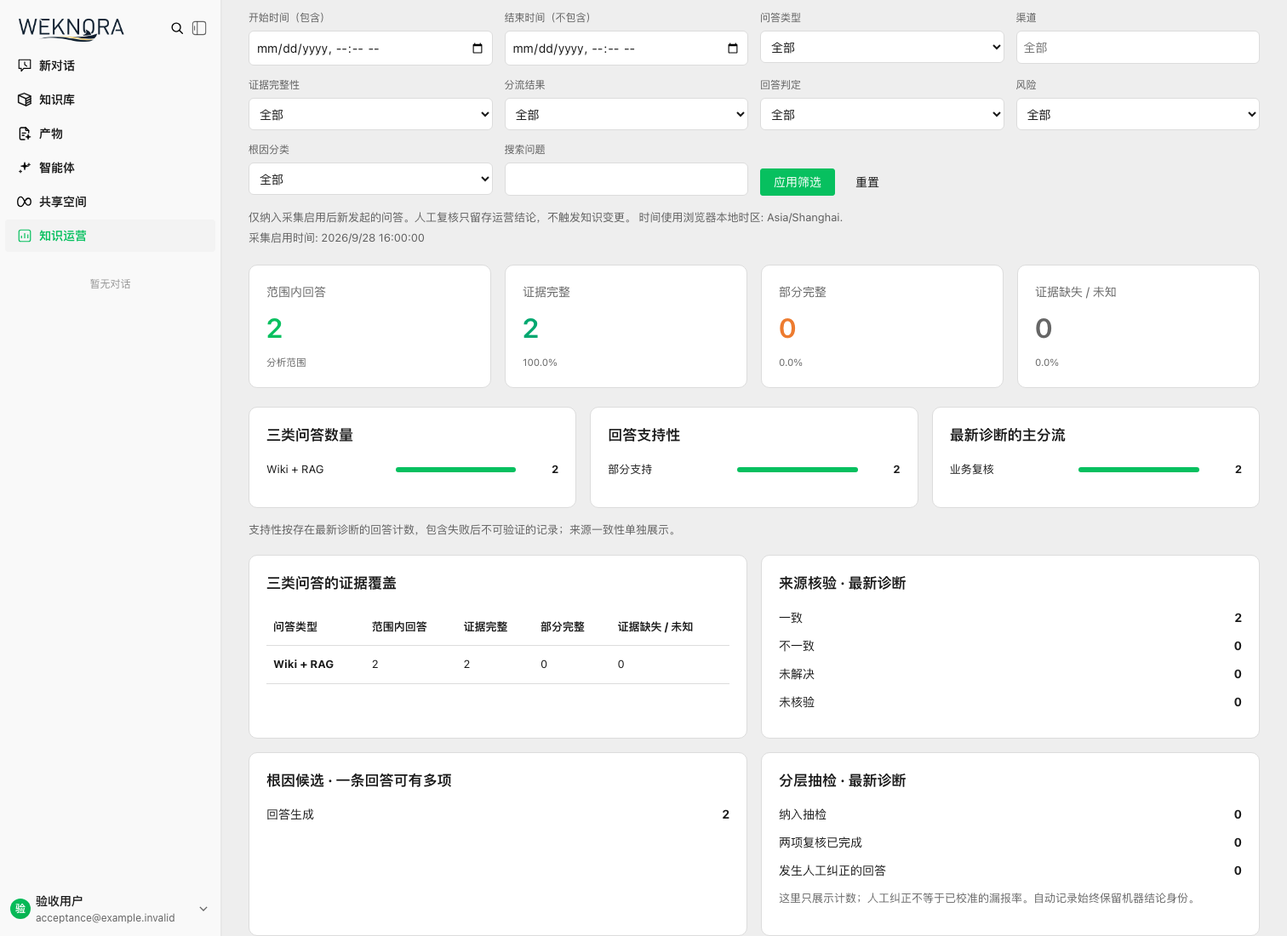
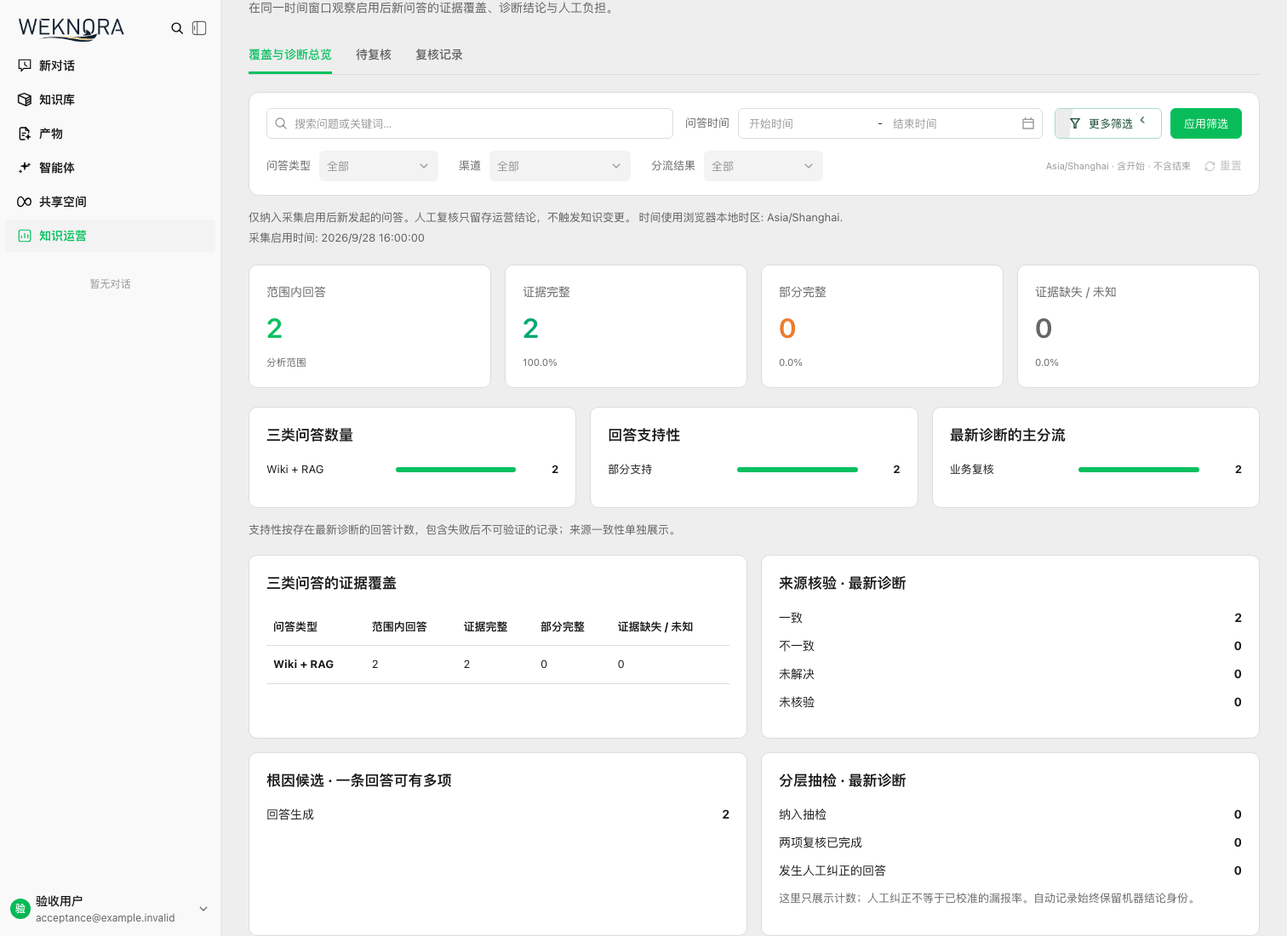
style: refine knowledge operations filter toolbar

diff --git a/frontend/src/views/knowledge-ops/Workbench.vue b/frontend/src/views/knowledge-ops/Workbench.vue
@@ -2,23 +2,7 @@
   <main class="ops-workbench">
     <header class="page-header"><div><h1>{{ k('title') }}</h1><p>{{ k('subtitle') }}</p></div><div class="header-actions"><t-tag :theme="settings?.enabled ? 'success' : 'default'" variant="light">{{ settings ? k(settings.enabled ? 'enabled' : 'disabled') : k('unknown') }}</t-tag><t-button variant="outline" @click="settingsVisible = true">{{ k('settings') }}</t-button><t-button variant="outline" :loading="loading" @click="reload">{{ k('refresh') }}</t-button></div></header>
     <nav class="tabs" :aria-label="k('title')"><button v-for="item in tabs" :key="item" type="button" :class="{ active: tab === item }" :aria-current="tab === item ? 'page' : undefined" @click="changeTab(item)">{{ k(item) }}</button></nav>
-    <form v-if="tab !== 'records'" class="filters" @submit.prevent="applyFilters">
-      <label>{{ k('from') }}<input v-model="draftFilters.from" type="datetime-local" /></label><label>{{ k('to') }}<input v-model="draftFilters.to" type="datetime-local" /></label>
-      <label>{{ k('qa_type') }}<select v-model="draftFilters.qa_type"><option value="">{{ k('all') }}</option><option v-for="mode in qaTypes" :key="mode" :value="mode">{{ label(mode) }}</option></select></label>
-      <label>{{ k('channel') }}<input v-model.trim="draftFilters.channel" :placeholder="k('all')" list="ops-channels" /><datalist id="ops-channels"><option v-for="channel in channels" :key="channel" :value="channel" /></datalist></label>
-      <label>{{ k('capture_status') }}<select v-model="draftFilters.capture_status"><option value="">{{ k('all') }}</option><option v-for="value in ['complete', 'partial', 'missing', 'unknown']" :key="value" :value="value">{{ label(value) }}</option></select></label>
-      <label>{{ k('route') }}<select v-model="draftFilters.route"><option value="">{{ k('all') }}</option><option v-for="value in routes" :key="value" :value="value">{{ label(value) }}</option></select></label>
-      <label>{{ k('verdict') }}<select v-model="draftFilters.verdict"><option value="">{{ k('all') }}</option><option v-for="value in answerVerdicts" :key="value" :value="value">{{ labelVerdict(value) }}</option></select></label>
-      <label>{{ k('risk') }}<select v-model="draftFilters.risk"><option value="">{{ k('all') }}</option><option v-for="value in ['high','medium','low','unknown']" :key="value" :value="value">{{ label(value) }}</option></select></label>
-      <label>{{ k('causeCategory') }}<select v-model="draftFilters.cause_category"><option value="">{{ k('all') }}</option><option v-for="value in ['generation','retrieval','wiki_source','source_conflict','applicability','capture','knowledge_gap','unknown']" :key="value" :value="value">{{ label(value) }}</option></select></label>
-      <label class="search-label">{{ k('search') }}<input v-model.trim="draftFilters.search" type="search" /></label><div class="filter-actions"><t-button type="submit">{{ k('apply') }}</t-button><t-button variant="text" @click="resetFilters">{{ k('reset') }}</t-button></div>
-    </form>
-    <form v-else class="filters" @submit.prevent="applyFilters">
-      <label>{{ k('reviewFrom') }}<input v-model="recordDraft.review_from" type="datetime-local" /></label><label>{{ k('reviewTo') }}<input v-model="recordDraft.review_to" type="datetime-local" /></label>
-      <label>{{ k('target') }}<select v-model="recordDraft.target"><option value="">{{ k('all') }}</option><option value="answer">{{ k('answerTarget') }}</option><option value="cause">{{ k('causeTarget') }}</option></select></label>
-      <label>{{ k('reviewAction') }}<select v-model="recordDraft.action"><option value="">{{ k('all') }}</option><option v-for="value in ['confirmed','corrected','needs_more_evidence']" :key="value" :value="value">{{ label(value) }}</option></select></label>
-      <label>{{ k('reviewerID') }}<input v-model.trim="recordDraft.reviewer_id" /></label><label>{{ k('reviewSearch') }}<input v-model.trim="recordDraft.review_search" type="search" /></label><div class="filter-actions"><t-button type="submit">{{ k('apply') }}</t-button><t-button variant="text" @click="resetFilters">{{ k('reset') }}</t-button></div>
-    </form>
+    <FilterBar :values="tab === 'records' ? recordDraft : draftFilters" :applied="tab === 'records' ? recordFilters : filters" :records="tab === 'records'" :loading="loading" @change="changeFilter" @period="changePeriod" @apply="applyFilters" @reset="resetFilters" @remove="removeFilter" />
     <p v-if="filters.route === 'technical_followup'" class="scope-note">{{ k('technicalNotice') }}</p>
     <p v-if="filterError" class="error" role="alert">{{ filterError }}</p>
     <p class="scope-note">{{ k('scopeNotice') }} {{ k('timeZone') }}: {{ timeZone }}. <span v-if="settings?.capture_enabled_at">{{ k('captureSince') }}: {{ date(settings.capture_enabled_at) }}</span></p>
@@ -50,8 +34,9 @@ import { useRoute, useRouter } from 'vue-router'
 import { MessagePlugin } from 'tdesign-vue-next'
 import { useAuthStore } from '@/stores/auth'
 import { getOpsSettings, getOpsOverview, getOpsRuns, getOpsReviews, getOpsGroups, type OpsGroup, opsErrorCode, type OpsSettings, type OpsOverview, type OpsRun, type OpsReview, type OpsFilters } from '@/api/knowledge-ops'
-import { buildFilters, answerVerdicts, routes } from './state'
+import { buildFilters } from './state'
 import { useOpsText } from './locales'
+import FilterBar from './FilterBar.vue'
 import QueuePanel from './QueuePanel.vue'
 import OverviewInsights from './OverviewInsights.vue'
 import SettingsDrawer from './SettingsDrawer.vue'
@@ -70,8 +55,6 @@ const recordDraft = reactive({review_from: '', review_to: '', target: '', action
 const activeRun = computed(() => typeof route.query.run === 'string' ? route.query.run : '')
 const blankFilters = () => ({ from: '', to: '', qa_type: '', channel: '', capture_status: '', route: '', verdict: '', search: '', risk: '', cause_category: '' })
 const draftFilters = reactive(blankFilters()); const filters = ref<OpsFilters>({}); let token = 0
-const qaTypes = ['rag-qa', 'wiki-qa', 'hybrid-rag-wiki']
-const channels = ['web', 'api', 'embed', 'wecom', 'feishu', 'lark', 'slack', 'telegram', 'dingtalk', 'mattermost', 'wechat', 'qqbot']
 const metrics = computed(() => [{ key: 'total', value: overview.value?.total || 0 }, { key: 'complete', value: overview.value?.complete || 0 }, { key: 'partial', value: overview.value?.partial || 0 }, { key: 'missing', value: overview.value?.missing || 0 }])
 const distributions = computed(() => [{ key: 'modes', values: overview.value?.by_mode || {} }, { key: 'verdicts', values: overview.value?.by_verdict || {} }, { key: 'routing', values: overview.value?.by_route || {} }])
 async function reload() {
@@ -84,6 +67,15 @@ async function reload() {
     if (tab.value === 'records') { reviews.value = result.items as OpsReview[]; runs.value = [] } else if (tab.value === 'queue' && grouped.value && !selectedGroup.value) { groups.value = result.items as OpsGroup[]; runs.value = []; reviews.value = [] } else { runs.value = result.items as OpsRun[]; groups.value = []; reviews.value = [] }
   } catch (failure) { if (current === token) { error.value = k(opsErrorCode(failure)); runs.value = []; reviews.value = []; overview.value = undefined; total.value = 0 } }
   finally { if (current === token) loading.value = false }
+}
+function changeFilter(key: string, value: string) { const draft = tab.value === 'records' ? recordDraft : draftFilters; if (key in draft) (draft as Record<string, string>)[key] = value }
+function changePeriod(from: string, to: string) { if (tab.value === 'records') {recordDraft.review_from = from; recordDraft.review_to = to} else {draftFilters.from = from; draftFilters.to = to} }
+function removeFilter(key: string) {
+  const applied = {...(tab.value === 'records' ? recordFilters.value : filters.value)} as Record<string,string>
+  const keys = key === 'period' ? (tab.value === 'records' ? ['review_from','review_to'] : ['from','to']) : [key]
+  keys.forEach(item => {delete applied[item]; changeFilter(item, '')})
+  if (tab.value === 'records') recordFilters.value = applied; else filters.value = applied
+  selectedGroup.value = ''; page.value = 1; void reload()
 }
 function applyFilters() {
   filterError.value = ''
@@ -106,6 +98,6 @@ watch(() => route.query.tab, value => { if (tabs.includes(value as Tab) && value
 onMounted(reload)
 </script>
 <style scoped>
-.ops-workbench{height:100%;box-sizing:border-box;overflow:auto;padding:30px 32px 40px;background:var(--td-bg-color-page);color:var(--td-text-color-primary);font-size:14px;line-height:1.5}.page-header{display:flex;justify-content:space-between;gap:20px;align-items:flex-start;margin-bottom:24px}h1{margin:0;font-size:26px;font-weight:600}h2{margin:0 0 18px;font-size:17px}h3{font-size:16px}.page-header p{color:var(--td-text-color-secondary);margin:8px 0 0}.header-actions{display:flex;align-items:center;gap:10px;flex-wrap:wrap}.tabs{display:flex;gap:28px;border-bottom:1px solid var(--td-component-border);margin-bottom:20px}.tabs button{min-height:44px;font:inherit;font-weight:500;cursor:pointer;background:transparent;border:0;border-bottom:3px solid transparent;color:var(--td-text-color-secondary);padding:10px 0}.tabs button.active{border-color:var(--td-brand-color);color:var(--td-brand-color)}.filters{display:grid;grid-template-columns:repeat(4,minmax(130px,1fr));gap:14px}.filters label{display:flex;flex-direction:column;gap:6px;font-size:12px;color:var(--td-text-color-secondary)}.filters input,.filters select{box-sizing:border-box;width:100%;font:inherit;font-size:14px;min-height:38px;padding:8px;border:1px solid var(--td-component-border);border-radius:6px;background:var(--td-bg-color-container);color:var(--td-text-color-primary)}.filter-actions{display:flex;gap:8px;align-items:flex-end}.scope-note,.muted{font-size:13px;color:var(--td-text-color-secondary)}.scope-note{margin:16px 0}.scope-note span{display:block;margin-top:4px}.metrics{display:grid;grid-template-columns:repeat(4,minmax(0,1fr));gap:16px;margin:22px 0}.metric{padding:20px;border:1px solid var(--td-component-border);border-radius:10px;background:var(--td-bg-color-container);display:flex;flex-direction:column;gap:8px}.metric span{color:var(--td-text-color-secondary)}.metric strong{font-size:32px;font-weight:600;color:var(--td-brand-color)}.metric strong.complete{color:var(--td-success-color)}.metric strong.partial{color:var(--td-warning-color)}.metric strong.missing{color:var(--td-text-color-secondary)}.metric small{color:var(--td-text-color-secondary)}.panel{background:var(--td-bg-color-container);border:1px solid var(--td-component-border);border-radius:10px;padding:20px}.distribution-grid{display:grid;grid-template-columns:repeat(3,minmax(0,1fr));gap:16px}.distribution{display:grid;grid-template-columns:minmax(90px,1fr) 1fr 40px;gap:10px;align-items:center;margin:14px 0;font-size:13px}.distribution strong{text-align:right}.bar{height:6px;background:var(--td-bg-color-secondarycontainer);border-radius:4px;overflow:hidden}.bar i{display:block;height:100%;background:var(--td-brand-color)}.summary{display:flex;gap:30px;margin:20px 0;color:var(--td-text-color-secondary)}.summary strong{margin-left:8px;color:var(--td-text-color-primary)}.list-panel{margin-top:20px}.section-header{display:flex;align-items:baseline;justify-content:space-between}.section-header h2{margin-bottom:0}.table-scroll{overflow:auto}table{border-collapse:collapse;width:100%;min-width:950px;font-size:13px;text-align:left}th{font-weight:500;background:var(--td-bg-color-secondarycontainer);color:var(--td-text-color-secondary);white-space:nowrap}th,td{padding:14px 12px;border-bottom:1px solid var(--td-component-border);vertical-align:top}td small{display:block;color:var(--td-text-color-secondary);margin-top:6px;font-size:12px;max-width:180px;overflow-wrap:anywhere}.question-cell{max-width:260px;min-width:160px}.question-cell>span{display:-webkit-box;-webkit-line-clamp:3;-webkit-box-orient:vertical;overflow:hidden;overflow-wrap:anywhere}.reason-cell{max-width:300px;white-space:pre-wrap;overflow-wrap:anywhere}.status-tag{display:inline-block;white-space:nowrap;padding:3px 7px;background:var(--td-bg-color-secondarycontainer);border-radius:4px}.status-tag.complete{background:var(--td-success-color-light);color:var(--td-success-color)}.status-tag.partial{background:var(--td-warning-color-light);color:var(--td-warning-color)}.link-button{border:0;padding:0;background:transparent;color:var(--td-brand-color);font:inherit;cursor:pointer;white-space:nowrap;min-height:32px}.link-button:hover{text-decoration:underline}tbody tr:hover{background:var(--td-bg-color-container-hover)}.pagination{display:flex;justify-content:flex-end;align-items:center;gap:14px;margin-top:20px}.empty-state{text-align:center;padding:40px 20px;color:var(--td-text-color-secondary)}.loading-state{display:flex;justify-content:center;align-items:center;gap:12px;min-height:280px}.error{color:var(--td-error-color)}button:focus-visible,input:focus-visible,select:focus-visible{outline:2px solid var(--td-brand-color);outline-offset:3px}@media(max-width:1100px){.page-header{flex-direction:column}.distribution-grid{grid-template-columns:1fr}.filters{grid-template-columns:repeat(3,minmax(130px,1fr))}}@media(max-width:700px){.ops-workbench{padding:20px 16px}.filters,.metrics{grid-template-columns:repeat(2,minmax(0,1fr))}.tabs{gap:18px}.header-actions{gap:8px}.summary{flex-wrap:wrap;gap:12px}.pagination{justify-content:center}}
+.ops-workbench{height:100%;box-sizing:border-box;overflow:auto;padding:30px 32px 40px;background:var(--td-bg-color-page);color:var(--td-text-color-primary);font-size:14px;line-height:1.5}.page-header{display:flex;justify-content:space-between;gap:20px;align-items:flex-start;margin-bottom:24px}h1{margin:0;font-size:26px;font-weight:600}h2{margin:0 0 18px;font-size:17px}h3{font-size:16px}.page-header p{color:var(--td-text-color-secondary);margin:8px 0 0}.header-actions{display:flex;align-items:center;gap:10px;flex-wrap:wrap}.tabs{display:flex;gap:28px;border-bottom:1px solid var(--td-component-border);margin-bottom:20px}.tabs button{min-height:44px;font:inherit;font-weight:500;cursor:pointer;background:transparent;border:0;border-bottom:3px solid transparent;color:var(--td-text-color-secondary);padding:10px 0}.tabs button.active{border-color:var(--td-brand-color);color:var(--td-brand-color)}.scope-note,.muted{font-size:13px;color:var(--td-text-color-secondary)}.scope-note{margin:16px 0}.scope-note span{display:block;margin-top:4px}.metrics{display:grid;grid-template-columns:repeat(4,minmax(0,1fr));gap:16px;margin:22px 0}.metric{padding:20px;border:1px solid var(--td-component-border);border-radius:10px;background:var(--td-bg-color-container);display:flex;flex-direction:column;gap:8px}.metric span{color:var(--td-text-color-secondary)}.metric strong{font-size:32px;font-weight:600;color:var(--td-brand-color)}.metric strong.complete{color:var(--td-success-color)}.metric strong.partial{color:var(--td-warning-color)}.metric strong.missing{color:var(--td-text-color-secondary)}.metric small{color:var(--td-text-color-secondary)}.panel{background:var(--td-bg-color-container);border:1px solid var(--td-component-border);border-radius:10px;padding:20px}.distribution-grid{display:grid;grid-template-columns:repeat(3,minmax(0,1fr));gap:16px}.distribution{display:grid;grid-template-columns:minmax(90px,1fr) 1fr 40px;gap:10px;align-items:center;margin:14px 0;font-size:13px}.distribution strong{text-align:right}.bar{height:6px;background:var(--td-bg-color-secondarycontainer);border-radius:4px;overflow:hidden}.bar i{display:block;height:100%;background:var(--td-brand-color)}.summary{display:flex;gap:30px;margin:20px 0;color:var(--td-text-color-secondary)}.summary strong{margin-left:8px;color:var(--td-text-color-primary)}.list-panel{margin-top:20px}.section-header{display:flex;align-items:baseline;justify-content:space-between}.section-header h2{margin-bottom:0}.table-scroll{overflow:auto}table{border-collapse:collapse;width:100%;min-width:950px;font-size:13px;text-align:left}th{font-weight:500;background:var(--td-bg-color-secondarycontainer);color:var(--td-text-color-secondary);white-space:nowrap}th,td{padding:14px 12px;border-bottom:1px solid var(--td-component-border);vertical-align:top}td small{display:block;color:var(--td-text-color-secondary);margin-top:6px;font-size:12px;max-width:180px;overflow-wrap:anywhere}.question-cell{max-width:260px;min-width:160px}.question-cell>span{display:-webkit-box;-webkit-line-clamp:3;-webkit-box-orient:vertical;overflow:hidden;overflow-wrap:anywhere}.reason-cell{max-width:300px;white-space:pre-wrap;overflow-wrap:anywhere}.status-tag{display:inline-block;white-space:nowrap;padding:3px 7px;background:var(--td-bg-color-secondarycontainer);border-radius:4px}.status-tag.complete{background:var(--td-success-color-light);color:var(--td-success-color)}.status-tag.partial{background:var(--td-warning-color-light);color:var(--td-warning-color)}.link-button{border:0;padding:0;background:transparent;color:var(--td-brand-color);font:inherit;cursor:pointer;white-space:nowrap;min-height:32px}.link-button:hover{text-decoration:underline}tbody tr:hover{background:var(--td-bg-color-container-hover)}.pagination{display:flex;justify-content:flex-end;align-items:center;gap:14px;margin-top:20px}.empty-state{text-align:center;padding:40px 20px;color:var(--td-text-color-secondary)}.loading-state{display:flex;justify-content:center;align-items:center;gap:12px;min-height:280px}.error{color:var(--td-error-color)}button:focus-visible,input:focus-visible,select:focus-visible{outline:2px solid var(--td-brand-color);outline-offset:3px}@media(max-width:1100px){.page-header{flex-direction:column}.distribution-grid{grid-template-columns:1fr}}@media(max-width:700px){.ops-workbench{padding:20px 16px}.metrics{grid-template-columns:repeat(2,minmax(0,1fr))}.tabs{gap:18px}.header-actions{gap:8px}.summary{flex-wrap:wrap;gap:12px}.pagination{justify-content:center}}
 .queue-counts{margin:20px 0}.queue-count-grid{display:grid;grid-template-columns:repeat(4,1fr);gap:12px}.queue-count-grid button{display:flex;align-items:center;justify-content:space-between;padding:16px;border:1px solid var(--td-component-border);border-radius:8px;background:var(--td-bg-color-container);font:inherit;color:var(--td-text-color-primary);cursor:pointer}.queue-count-grid strong{font-size:24px;color:var(--td-brand-color)}@media(max-width:1000px){.queue-count-grid{grid-template-columns:repeat(2,1fr)}}
 </style>

diff --git a/frontend/src/views/knowledge-ops/FilterBar.vue b/frontend/src/views/knowledge-ops/FilterBar.vue
@@ -1,0 +1,106 @@
+<template>
+  <form class="ops-filter-bar" @submit.prevent="emit('apply')">
+    <div class="filter-toolbar">
+      <t-input class="filter-search" :value="values[searchKey]" :placeholder="k(records ? 'reviewSearch' : 'searchPlaceholder')" :aria-label="k(records ? 'reviewSearch' : 'search')" clearable @change="(value: unknown) => change(searchKey, value)">
+        <template #prefix-icon><SearchIcon /></template>
+      </t-input>
+      <div class="filter-period">
+        <span class="field-caption" :id="`${id}-period`">{{ k(records ? 'reviewPeriod' : 'questionPeriod') }}</span>
+        <t-date-range-picker class="period-picker" :value="period" :aria-labelledby="`${id}-period`" :placeholder="[k('startDate'), k('endDate')]" :presets="presets" :first-day-of-week="1" value-type="time-stamp" format="YYYY-MM-DD HH:mm" enable-time-picker clearable :need-confirm="true" @change="changePeriod" />
+      </div>
+      <div class="toolbar-actions">
+        <t-button v-if="!records" class="more-button" variant="outline" theme="default" :aria-expanded="expanded" :aria-controls="`${id}-advanced`" @click="expanded = !expanded">
+          <template #icon><FilterIcon /></template>{{ k('moreFilters') }}<span v-if="advancedCount" class="filter-count">{{ advancedCount }}</span><ChevronDownIcon class="chevron" :class="{ expanded }" />
+        </t-button>
+        <t-button type="submit" theme="primary" :loading="loading">{{ k('apply') }}</t-button>
+      </div>
+    </div>
+    <div class="quick-filters">
+      <div v-for="field in primaryFields" :key="field.key" class="inline-field">
+        <label :id="`${id}-${field.key}`">{{ k(field.title) }}</label>
+        <t-input v-if="field.key === 'reviewer_id'" :value="values[field.key]" :aria-labelledby="`${id}-${field.key}`" :placeholder="k('allReviewers')" clearable @change="(value: unknown) => change(field.key, value)" />
+        <t-select v-else :value="values[field.key] || undefined" :aria-labelledby="`${id}-${field.key}`" :options="options(field)" :placeholder="k('all')" clearable :filterable="field.key === 'channel'" :creatable="field.key === 'channel'" @create="(value: unknown) => change(field.key, value)" @change="(value: unknown) => change(field.key, value)" />
+      </div>
+      <div class="filter-meta"><span class="time-note">{{ timeZone }} · {{ k('timeBoundary') }}</span><button type="button" class="reset-button" :disabled="!hasValues" @click="emit('reset')"><RefreshIcon />{{ k('reset') }}</button></div>
+    </div>
+    <div v-if="expanded && !records" :id="`${id}-advanced`" class="advanced-filters">
+      <div v-for="field in advancedFields" :key="field.key" class="advanced-field">
+        <label :id="`${id}-${field.key}`">{{ k(field.title) }}</label>
+        <t-select :value="values[field.key] || undefined" :aria-labelledby="`${id}-${field.key}`" :options="options(field)" :placeholder="k('all')" clearable @change="(value: unknown) => change(field.key, value)" />
+      </div>
+    </div>
+    <div v-if="activeTags.length" class="applied-filters" aria-live="polite"><span class="applied-label">{{ k('activeFilters') }}</span><t-tag v-for="tag in activeTags" :key="tag.key" closable variant="light" theme="default" @close="emit('remove', tag.key)">{{ tag.text }}</t-tag></div>
+  </form>
+</template>
+
+<script setup lang="ts">
+import { computed, ref } from 'vue'
+import { SearchIcon, FilterIcon, ChevronDownIcon, RefreshIcon } from 'tdesign-icons-vue-next'
+import type { DateRangeValue } from 'tdesign-vue-next'
+import type { OpsFilters } from '@/api/knowledge-ops'
+import { answerVerdicts, routes } from './state'
+import { useOpsText } from './locales'
+const props = defineProps<{ values: Record<string, string>; applied: OpsFilters; records: boolean; loading: boolean }>()
+const emit = defineEmits<{ change: [key: string, value: string]; period: [from: string, to: string]; apply: []; reset: []; remove: [key: string] }>()
+const { k, label, labelVerdict, date } = useOpsText()
+const expanded = ref(false)
+const id = computed(() => props.records ? 'ops-record-filters' : 'ops-run-filters')
+const timeZone = Intl.DateTimeFormat().resolvedOptions().timeZone
+const searchKey = computed(() => props.records ? 'review_search' : 'search')
+const timeKeys = computed(() => props.records ? ['review_from', 'review_to'] : ['from', 'to'])
+interface Field { key: string; title: string; values: string[] }
+const runFields: Field[] = [
+  { key: 'qa_type', title: 'qa_type', values: ['rag-qa', 'wiki-qa', 'hybrid-rag-wiki'] },
+  { key: 'channel', title: 'channel', values: ['web', 'api', 'embed', 'wecom', 'feishu', 'lark', 'slack', 'telegram', 'dingtalk', 'mattermost', 'wechat', 'qqbot'] },
+  { key: 'route', title: 'route', values: routes },
+]
+const recordFields: Field[] = [
+  { key: 'target', title: 'target', values: ['answer', 'cause'] },
+  { key: 'action', title: 'reviewAction', values: ['confirmed', 'corrected', 'needs_more_evidence'] },
+  { key: 'reviewer_id', title: 'reviewer', values: [] },
+]
+const advancedFields: Field[] = [
+  { key: 'capture_status', title: 'capture_status', values: ['complete', 'partial', 'missing', 'unknown'] },
+  { key: 'verdict', title: 'verdict', values: answerVerdicts },
+  { key: 'risk', title: 'risk', values: ['high', 'medium', 'low', 'unknown'] },
+  { key: 'cause_category', title: 'causeCategory', values: ['generation', 'retrieval', 'wiki_source', 'source_conflict', 'applicability', 'capture', 'knowledge_gap', 'unknown'] },
+]
+const primaryFields = computed(() => props.records ? recordFields : runFields)
+function displayValue(key: string, value: string) {
+  if (key === 'target') return k(value === 'answer' ? 'answerTarget' : 'causeTarget')
+  return key === 'verdict' ? labelVerdict(value) : label(value)
+}
+function options(field: Field) {return field.values.map(value => ({value, label: displayValue(field.key, value)}))}
+function change(key: string, value: unknown) {emit('change', key, typeof value === 'string' ? value : '')}
+const period = computed(() => timeKeys.value.map(key => props.values[key] ? new Date(props.values[key]).getTime() : '').filter(value => value !== '') as DateRangeValue)
+function changePeriod(value: DateRangeValue) {
+  emit('period', value[0] ? new Date(value[0]).toISOString() : '', value[1] ? new Date(value[1]).toISOString() : '')
+}
+const presets = computed(() => ({
+  [k('last7Days')]: () => [Date.now() - 7 * 86400000, Date.now()] as [number, number],
+  [k('last30Days')]: () => [Date.now() - 30 * 86400000, Date.now()] as [number, number],
+}))
+const advancedCount = computed(() => advancedFields.filter(field => !!props.values[field.key]).length)
+const hasValues = computed(() => Object.values(props.values).some(Boolean) || Object.values(props.applied).some(Boolean))
+const activeTags = computed(() => {
+  const tags: { key: string; text: string }[] = []
+  const applied = props.applied as Record<string, string>
+  const [from, to] = timeKeys.value
+  if (applied[from] || applied[to]) tags.push({key: 'period', text: `${k(props.records ? 'reviewPeriod' : 'questionPeriod')}: ${applied[from] ? date(applied[from]) : '…'} → ${applied[to] ? date(applied[to]) : '…'}`})
+  for (const field of [...primaryFields.value, ...(props.records ? [] : advancedFields)]) {
+    if (applied[field.key]) tags.push({key: field.key, text: `${k(field.title)}: ${displayValue(field.key, applied[field.key])}`})
+  }
+  if (applied[searchKey.value]) tags.push({key: searchKey.value, text: `${k('searchShort')}: ${applied[searchKey.value]}`})
+  return tags
+})
+</script>
+
+<style scoped>
+.ops-filter-bar{--filter-height:36px;background:var(--td-bg-color-container);border:1px solid var(--td-component-border);border-radius:12px;padding:18px 20px 0;box-shadow:0 2px 8px #00000003}
+.filter-toolbar{display:flex;align-items:center;gap:14px}.filter-search{flex:1;min-width:180px}.filter-period{display:flex;align-items:center;gap:10px;flex:0 1 420px;min-width:300px}.field-caption{white-space:nowrap;color:var(--td-text-color-secondary);font-size:13px}.period-picker{flex:1;min-width:0}.toolbar-actions{display:flex;gap:10px;align-items:center;flex-shrink:0}.chevron{font-size:14px;transition:transform .16s;margin-left:4px}.chevron.expanded{transform:rotate(180deg)}.filter-count{font-size:11px;border-radius:4px;background:var(--td-brand-color-light);color:var(--td-brand-color);padding:0 5px;margin-left:5px}
+.quick-filters{display:flex;align-items:center;gap:24px;padding:14px 0 16px}.inline-field{display:flex;align-items:center;gap:10px;min-width:0;flex:0 1 202px}.inline-field label{white-space:nowrap;font-size:13px;color:var(--td-text-color-secondary)}.inline-field :deep(.t-select__wrap),.inline-field :deep(.t-input__wrap){flex:1;min-width:90px}.inline-field :deep(.t-input){background:var(--td-bg-color-secondarycontainer);border-color:transparent}.inline-field :deep(.t-input:hover){border-color:var(--td-component-border)}.inline-field :deep(.t-input--focused){border-color:var(--td-brand-color)}.filter-meta{display:flex;align-items:center;justify-content:flex-end;gap:16px;flex:1;white-space:nowrap}.time-note{font-size:11px;color:var(--td-text-color-placeholder)}.reset-button{display:flex;align-items:center;gap:5px;border:0;padding:5px 0;background:none;font:inherit;font-size:13px;color:var(--td-text-color-secondary);cursor:pointer;white-space:nowrap}.reset-button:hover:not(:disabled){color:var(--td-brand-color)}.reset-button:disabled{opacity:.4;cursor:default}
+.advanced-filters{display:grid;grid-template-columns:repeat(4,minmax(0,1fr));gap:20px;padding:18px 0;border-top:1px dashed var(--td-component-border)}.advanced-field{display:flex;flex-direction:column;gap:8px}.advanced-field label{font-size:12px;color:var(--td-text-color-secondary)}.applied-filters{border-top:1px solid var(--td-component-border);padding:12px 0;display:flex;align-items:center;gap:8px;flex-wrap:wrap}.applied-label{font-size:12px;color:var(--td-text-color-secondary);margin-right:4px}.applied-filters :deep(.t-tag){max-width:100%;height:auto;min-height:26px;white-space:normal;overflow-wrap:anywhere;border-radius:5px}.ops-filter-bar :deep(.t-input){height:var(--filter-height);border-radius:6px;font-size:13px}.ops-filter-bar :deep(.t-range-input){height:var(--filter-height);border-radius:6px;font-size:12px}.ops-filter-bar :deep(.t-button){height:var(--filter-height);border-radius:6px;font-size:13px}.period-picker :deep(.t-range-input__inner .t-input){height:100%;border:0;border-radius:3px;box-shadow:none}.ops-filter-bar :deep(.t-input__prefix-icon){color:var(--td-text-color-placeholder)}button:focus-visible{outline:2px solid var(--td-brand-color);outline-offset:3px}
+@media(max-width:1250px){.filter-toolbar{flex-wrap:wrap}.filter-search{flex:1 1 240px}.filter-period{flex:1 1 340px}.toolbar-actions{margin-left:auto}.quick-filters{gap:16px;flex-wrap:wrap}.inline-field{flex:1 1 180px}.filter-meta{flex:1 1 100%;justify-content:space-between}.advanced-filters{grid-template-columns:repeat(2,minmax(0,1fr))}}
+@media(max-width:700px){.ops-filter-bar{padding:14px 14px 0}.filter-toolbar{gap:10px}.filter-period{min-width:0;flex:1 1 100%}.filter-search{flex-basis:100%}.toolbar-actions{width:100%;justify-content:flex-end}.inline-field{flex-basis:100%}.inline-field label{min-width:64px}.advanced-filters{grid-template-columns:1fr}.time-note{white-space:normal}}
+@media(prefers-reduced-motion:reduce){.chevron{transition:none}}
+</style>

diff --git a/docs/design/knowledge-ops-acceptance/index.html b/docs/design/knowledge-ops-acceptance/index.html
@@ -1,1 +1,1 @@
-<!doctype html><html lang="zh-CN"><meta charset="utf-8"><meta name="viewport" content="width=device-width,initial-scale=1"><title>知识运营 v1.2 · 开发验收</title><style>body{margin:0;background:#f3f5f4;color:#18251e;font-family:system-ui,sans-serif}main{max-width:1400px;margin:40px auto;padding:0 24px}h1{font-size:30px}p{color:#57635c;line-height:1.8}.notice{border-left:4px solid #00b56b;background:white;padding:16px 20px}nav{display:flex;gap:18px;flex-wrap:wrap;margin:24px 0}a{color:#007e4b}section{margin:42px 0}img{display:block;width:100%;height:auto;border:1px solid #dce4de;border-radius:10px}h2{font-size:20px}</style><main><h1>知识运营 v1.2 · 开发验收</h1><p>新问答采集 → 证据验证 → 根因诊断 → 风险分流 → 人工复核</p><p class="notice">以下为真实 Vue 页面在隔离浏览器中的验收截图，API 使用模拟数据；不是设计图，也不是实际业务问答或业务准确率校准。后台状态、权限、迁移和并发逻辑另有 SQLite / PostgreSQL 自动化测试。代码位于 codex/knowledge-ops-v12。</p><nav><a href="#overview">覆盖与诊断总览</a><a href="#insights">覆盖、来源核验与抽检</a><a href="#queue">诊断优先的待复核</a><a href="#detail">诊断与证据详情</a><a href="#review">回答与根因独立复核</a><a href="#records">追加式人工复核记录</a><a href="#settings">采集与诊断设置</a><a href="#empty">空态</a><a href="#compact">窄窗口布局</a></nav><section id="overview"><h2>覆盖与诊断总览</h2><a href="../../images/knowledge-ops-acceptance/overview.png"><img loading="lazy" src="../../images/knowledge-ops-acceptance/overview.png" alt="覆盖与诊断总览（模拟数据）"></a></section><section id="insights"><h2>覆盖、来源核验与抽检</h2><a href="../../images/knowledge-ops-acceptance/insights.png"><img loading="lazy" src="../../images/knowledge-ops-acceptance/insights.png" alt="覆盖、来源核验与抽检（模拟数据）"></a></section><section id="queue"><h2>诊断优先的待复核与问题归组</h2><a href="../../images/knowledge-ops-acceptance/queue.png"><img loading="lazy" src="../../images/knowledge-ops-acceptance/queue.png" alt="诊断优先的待复核与问题归组（模拟数据）"></a></section><section id="detail"><h2>诊断与证据详情</h2><a href="../../images/knowledge-ops-acceptance/detail.png"><img loading="lazy" src="../../images/knowledge-ops-acceptance/detail.png" alt="诊断与证据详情（模拟数据）"></a></section><section id="review"><h2>回答与根因独立复核</h2><a href="../../images/knowledge-ops-acceptance/review.png"><img loading="lazy" src="../../images/knowledge-ops-acceptance/review.png" alt="回答与根因独立复核（模拟数据）"></a></section><section id="records"><h2>追加式人工复核记录</h2><a href="../../images/knowledge-ops-acceptance/records.png"><img loading="lazy" src="../../images/knowledge-ops-acceptance/records.png" alt="追加式人工复核记录（模拟数据）"></a></section><section id="settings"><h2>采集与诊断设置</h2><a href="../../images/knowledge-ops-acceptance/settings.png"><img loading="lazy" src="../../images/knowledge-ops-acceptance/settings.png" alt="采集与诊断设置（模拟数据）"></a></section><section id="empty"><h2>空态</h2><a href="../../images/knowledge-ops-acceptance/empty.png"><img loading="lazy" src="../../images/knowledge-ops-acceptance/empty.png" alt="空态（模拟数据）"></a></section><section id="compact"><h2>窄窗口布局</h2><a href="../../images/knowledge-ops-acceptance/compact.png"><img loading="lazy" src="../../images/knowledge-ops-acceptance/compact.png" alt="窄窗口布局（模拟数据）"></a></section></main></html>
+<!doctype html><html lang="zh-CN"><meta charset="utf-8"><meta name="viewport" content="width=device-width,initial-scale=1"><title>知识运营 v1.2 · 开发验收</title><style>body{margin:0;background:#f3f5f4;color:#18251e;font-family:system-ui,sans-serif}main{max-width:1400px;margin:40px auto;padding:0 24px}h1{font-size:30px}p{color:#57635c;line-height:1.8}.notice{border-left:4px solid #00b56b;background:white;padding:16px 20px}nav{display:flex;gap:18px;flex-wrap:wrap;margin:24px 0}a{color:#007e4b}section{margin:42px 0}img{display:block;width:100%;height:auto;border:1px solid #dce4de;border-radius:10px}h2{font-size:20px}</style><main><h1>知识运营 v1.2 · 开发验收</h1><p>新问答采集 → 证据验证 → 根因诊断 → 风险分流 → 人工复核</p><p class="notice">以下为真实 Vue 页面在隔离浏览器中的验收截图，API 使用模拟数据；不是设计图，也不是实际业务问答或业务准确率校准。后台状态、权限、迁移和并发逻辑另有 SQLite / PostgreSQL 自动化测试。代码位于 codex/knowledge-ops-v12。</p><nav><a href="#filters">筛选工具栏</a><a href="#overview">覆盖与诊断总览</a><a href="#insights">覆盖、来源核验与抽检</a><a href="#queue">诊断优先的待复核</a><a href="#detail">诊断与证据详情</a><a href="#review">回答与根因独立复核</a><a href="#records">追加式人工复核记录</a><a href="#settings">采集与诊断设置</a><a href="#empty">空态</a><a href="#compact">窄窗口布局</a></nav><section id="filters"><h2>筛选工具栏 · 常用条件</h2><a href="../../images/knowledge-ops-acceptance/filters.png"><img loading="lazy" src="../../images/knowledge-ops-acceptance/filters.png" alt="筛选工具栏 · 常用条件（模拟数据）"></a></section><section id="filters-active"><h2>更多筛选与已生效条件</h2><a href="../../images/knowledge-ops-acceptance/filters-active.png"><img loading="lazy" src="../../images/knowledge-ops-acceptance/filters-active.png" alt="更多筛选与已生效条件（模拟数据）"></a></section><section id="overview"><h2>覆盖与诊断总览</h2><a href="../../images/knowledge-ops-acceptance/overview.png"><img loading="lazy" src="../../images/knowledge-ops-acceptance/overview.png" alt="覆盖与诊断总览（模拟数据）"></a></section><section id="insights"><h2>覆盖、来源核验与抽检</h2><a href="../../images/knowledge-ops-acceptance/insights.png"><img loading="lazy" src="../../images/knowledge-ops-acceptance/insights.png" alt="覆盖、来源核验与抽检（模拟数据）"></a></section><section id="queue"><h2>诊断优先的待复核与问题归组</h2><a href="../../images/knowledge-ops-acceptance/queue.png"><img loading="lazy" src="../../images/knowledge-ops-acceptance/queue.png" alt="诊断优先的待复核与问题归组（模拟数据）"></a></section><section id="detail"><h2>诊断与证据详情</h2><a href="../../images/knowledge-ops-acceptance/detail.png"><img loading="lazy" src="../../images/knowledge-ops-acceptance/detail.png" alt="诊断与证据详情（模拟数据）"></a></section><section id="review"><h2>回答与根因独立复核</h2><a href="../../images/knowledge-ops-acceptance/review.png"><img loading="lazy" src="../../images/knowledge-ops-acceptance/review.png" alt="回答与根因独立复核（模拟数据）"></a></section><section id="records"><h2>追加式人工复核记录</h2><a href="../../images/knowledge-ops-acceptance/records.png"><img loading="lazy" src="../../images/knowledge-ops-acceptance/records.png" alt="追加式人工复核记录（模拟数据）"></a></section><section id="settings"><h2>采集与诊断设置</h2><a href="../../images/knowledge-ops-acceptance/settings.png"><img loading="lazy" src="../../images/knowledge-ops-acceptance/settings.png" alt="采集与诊断设置（模拟数据）"></a></section><section id="empty"><h2>空态</h2><a href="../../images/knowledge-ops-acceptance/empty.png"><img loading="lazy" src="../../images/knowledge-ops-acceptance/empty.png" alt="空态（模拟数据）"></a></section><section id="compact"><h2>窄窗口布局</h2><a href="../../images/knowledge-ops-acceptance/compact.png"><img loading="lazy" src="../../images/knowledge-ops-acceptance/compact.png" alt="窄窗口布局（模拟数据）"></a></section></main></html>

diff --git a/frontend/src/views/knowledge-ops/locales/index.ts b/frontend/src/views/knowledge-ops/locales/index.ts
@@ -1,5 +1,18 @@
 import { useI18n } from 'vue-i18n'
 const en: Record<string, string> = {
+  searchPlaceholder: "Search questions or keywords",
+  searchShort: "Search",
+  questionPeriod: "Asked",
+  reviewPeriod: "Reviewed",
+  startDate: "Start time",
+  endDate: "End time",
+  moreFilters: "More filters",
+  activeFilters: "Active filters",
+  timeBoundary: "Start inclusive · end exclusive",
+  last7Days: "Last 7 days",
+  last30Days: "Last 30 days",
+  allReviewers: "All reviewers",
+
   coverageMatrix: "Evidence coverage by QA type",
   sourceStats: "Source comparison · latest diagnoses",
   causeStats: "Root cause candidates · a run may have several",
@@ -66,6 +79,19 @@ const en: Record<string, string> = {
   answerTarget: 'Answer', causeTarget: 'Root cause', previous: 'Previous', next: 'Next', page: 'Page', budget: 'Diagnosis usage', tokens: 'Input / output tokens', duration: 'Duration (ms)', stratum: 'Sampling stratum', settingsError: 'Unable to load settings or model choices',
 }
 const zh: Record<string, string> = {
+  searchPlaceholder: "搜索问题或关键词…",
+  searchShort: "搜索",
+  questionPeriod: "问答时间",
+  reviewPeriod: "复核时间",
+  startDate: "开始时间",
+  endDate: "结束时间",
+  moreFilters: "更多筛选",
+  activeFilters: "已生效",
+  timeBoundary: "含开始 · 不含结束",
+  last7Days: "最近 7 天",
+  last30Days: "最近 30 天",
+  allReviewers: "全部复核人",
+
   coverageMatrix: "三类问答的证据覆盖",
   sourceStats: "来源核验 · 最新诊断",
   causeStats: "根因候选 · 一条回答可有多项",
